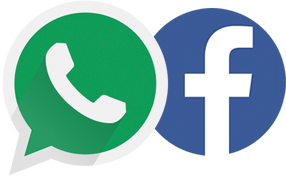
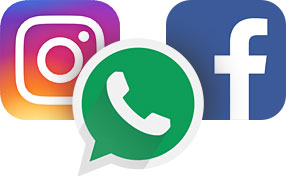
Changes

diff --git a/resources/views/front/footer.blade.php b/resources/views/front/footer.blade.php
@@ -15,8 +15,8 @@
             </div>
             <div class="footer-block">
                 <ul>
-                    <li><p class="footer-text">Полезные ссылки и скидки</p></li>
-                    <li><p class="footer-text">в нашем <a href="https://www.facebook.com/medstyle.kz" rel="nofollow" target="_blank" class="footer-link">Facebook</a></p></li>
+                    <li><p class="footer-text">Полезные советы и скидки</p></li>
+                    <li><p class="footer-text">в <a href="https://www.facebook.com/medstyle.kz" rel="nofollow" target="_blank" class="footer-link">Facebook</a> и <a href="https://www.instagram.com/medstyle_almaty/" rel="nofollow" target="_blank" class="footer-link">Instagram</a></p></li>
                 </ul>
             </div>
         </div>

diff --git a/resources/views/front/news/news.blade.php b/resources/views/front/news/news.blade.php
@@ -57,7 +57,7 @@
                 <div class="stock-social">
                     <img src="/img/stock-social.png" alt="" class="stock-social-img">
                     <p class="stock-social-descr">Получайте акции через WhatsApp по номеру <span class="no-br">+7 777 178-29-26</span>
-                        и в&nbsp;нашем <a target="_blank" href="//facebook.com/medstyle.kz" class="stock-social-link">Facebook</a></p>
+                        или через <a target="_blank" href="//facebook.com/medstyle.kz" class="stock-social-link">Facebook</a> и <a target="_blank" href="https://www.instagram.com/medstyle_almaty/" class="stock-social-link">Instagram</a></p>
                 </div>
             </div>
         </div>
